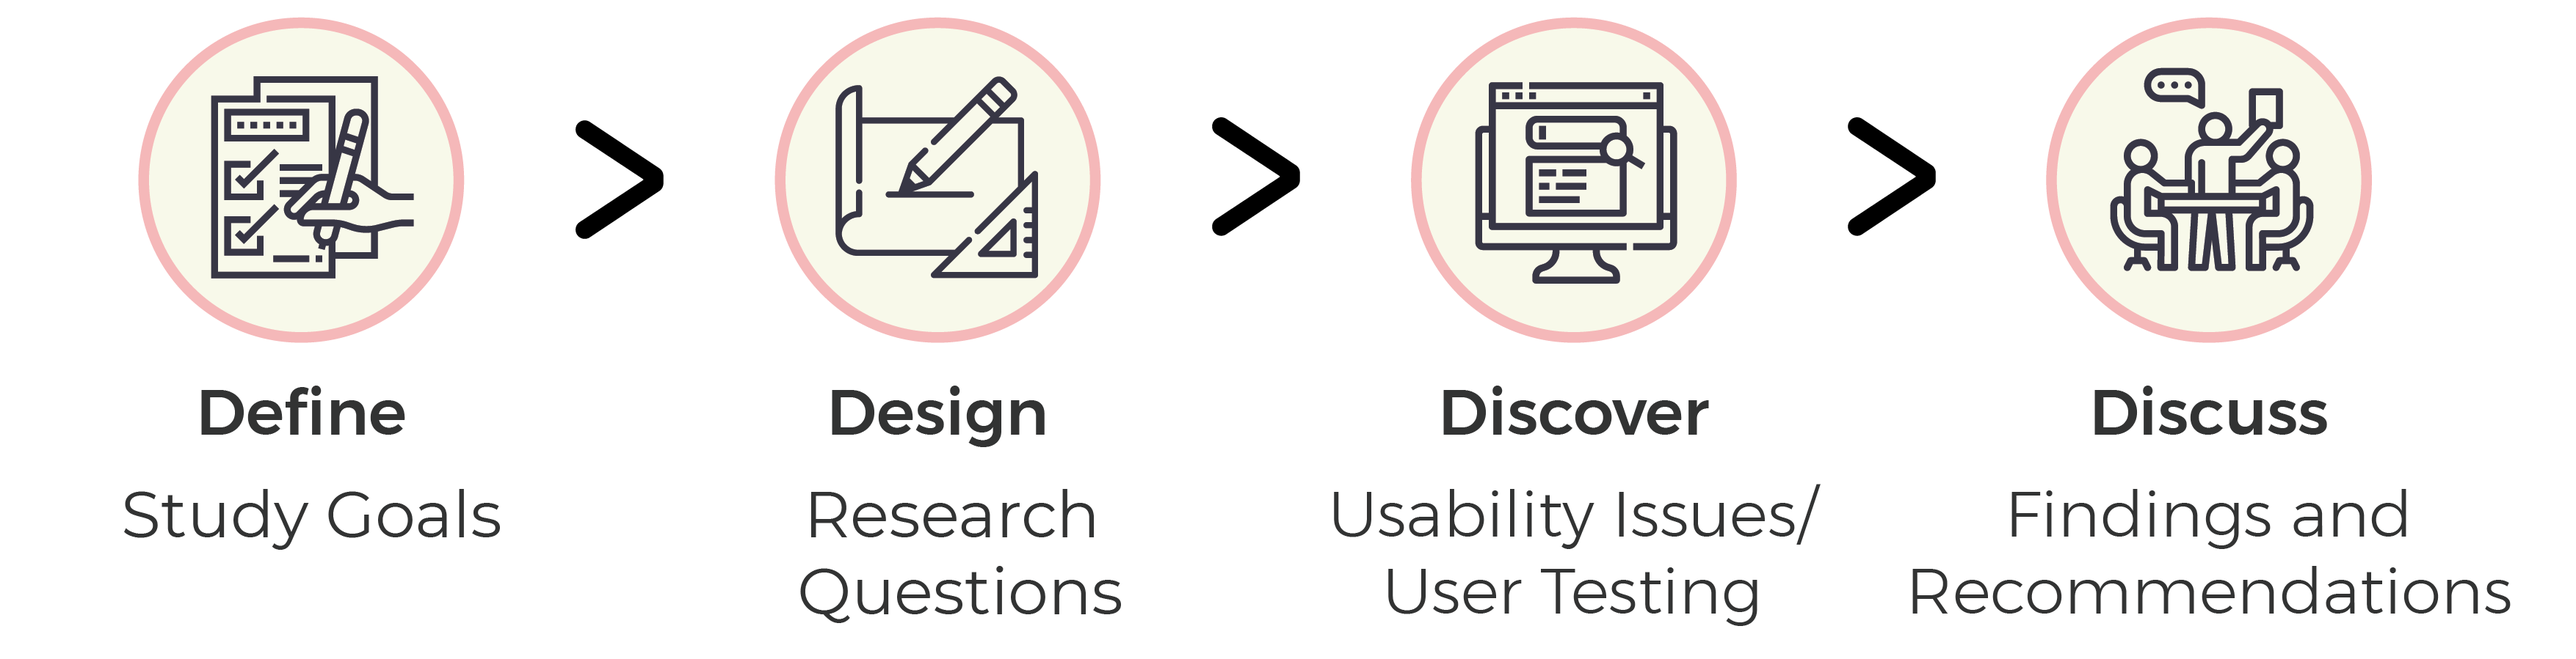
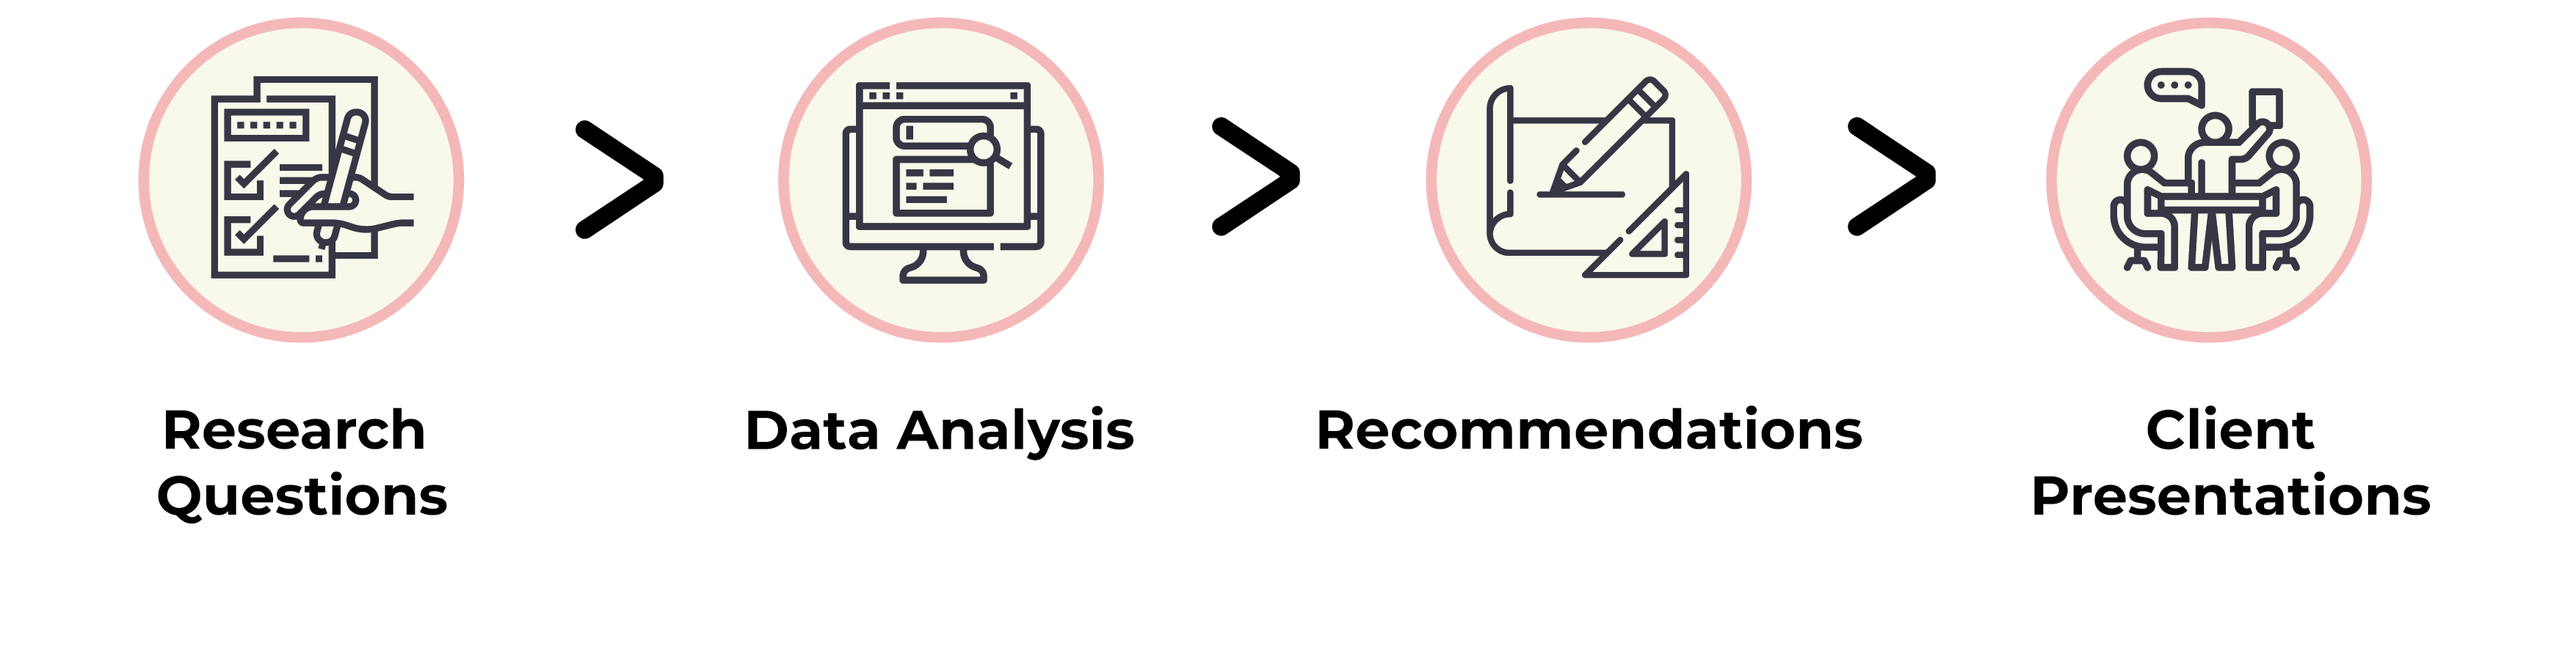
updated pratt news case study for resubmission

diff --git a/pratt-news-analysis.html b/pratt-news-analysis.html
@@ -139,7 +139,7 @@
 				<!-- Process Section -->
 				<div class="col-xl-8 offset-xl-2">
 					<span class="sp-sub-title">process</span>
-					<h3 class="sp-title">define+design+discover+dicuss</h3>
+					<h3 class="sp-title">define + analyze + recommend + present</h3>
 					<img src="img/pratt-news/Process-01.png" alt="process followed is define design discover discuss" >
 				</div>
 
@@ -192,8 +192,8 @@
 						<p>Here is the summary of our high-level findings from the entire website:</p>   
 						<div class="col-xl-12">
 						<ol class="sub-order-list">
-							<li>On average 43% of users clicked on the main navigation bar to move from one page to the next. 83% of total users scroll below the average fold.</li>
-							<li>Of all features within the navigation bar, the search icon is the most popular (6.6% of site visitors). There is a significant drop-off between users that click the search icon and those who complete a search (1.7% of visitors).</li>
+							<li>On average 43% of users clicked on the main navigation bar to move from one page to the next. 83% of total users scrolled below the average fold.</li>
+							<li>The search icon is the most clicked (6.6% of site visitors) within the navigation menu. However, we see a significant drop-off between users clicking the search icon and those who complete a search (1.7% of visitors).</li>
 							<li>An average of 46.79% of Desktop users see the Related News articles after reading an article, with a range of 34% - 64%.</li>
 							<li>11% of the total clicks on the homepage are made on “View all articles”. But they are more likely to drop off soon after going to the linked page. But more than 94% of the user are likely to drop off from the articles page.</li>
 						</ol>
@@ -205,6 +205,7 @@
 				<!-- Recommendations -->
 					<div class="row" style="margin: 50px 0px;">
 						<div class="col-xl-8 offset-xl-2">
+							<span class="sp-sub-title">Recommendations</span>
 							<h3 class="sp-title">Sound Recommendations based on our Hypothesis</h3>
 							<p>Based on our analysis of the website using Hotjar and Google Analytics we proposed 4 sound recommendations that could further enhance the user experience of the Pratt News website.</p>
 							<br/>
@@ -215,7 +216,8 @@
 					<div class="row">
 						<div class="col-xl-4 offset-xl-1">
 							<h3 class="sp-title">Reducing the height of the navigation and making it sticky</h3>
-							<p>Firstly, we recommend making the navigation menu of the website sticky. The current implementation of a static navigation menu forces the user to scroll all the way back up and engage with the website. I feel making the navigation sticky would ease this burden off the users shoulder and let them easily navigate to different sections of the website. In addition to this we recommend compressing the main Pratt website navigation into a hamburger icon so that the users are not overwhelmed by the number of menu options. The interaction design of the navigation bar is as shown on the right.</p>
+							<p>Firstly, we recommend <strong>reducing the height of the navigation bar and making it sticky</strong>, as shown in the image on the right. This would significantly improve the user engagement  and allows users to explore other sections of the website.</p>
+							<p>In addition to this hiding the main Pratt website navigation would <strong>help declutter the navigation menu</strong> and help user focus better. The interaction design for the new navigation bar is as shown on the right.</p>
 							<br/>
 						</div>
 						<div class="col-xl-6 align-self-center">
@@ -228,7 +230,8 @@
 					<div class="row" style="margin: 50px 0px;">
 						<div class="col-xl-4 offset-xl-1">
 							<h3 class="sp-title">Providing suggestive search and always keeping the news navigation options available</h3>
-							<p>Secondly, we recommend changing the interaction design of the News search bar. The current design covers the whole navigation menu when expanded, which violates the system visibility heuristic. I feel that implementing our recommended changes to the search would significantly lower the search drop off rate. In addition to this if predictive/suggestive search functionality is implemented it would further motivate the user to use it.</p>
+							<p>The current search bar violates a very important heuristic by covering the navigation menu. We recommend changing the visual design to something as shown on the right. I believe this would significantly lower the search drop-off rate.</p>
+							<p>In addition providing a predictive/ suggestive search would further improve the user engagement.</p>
 							<br/>
 						</div>
 						<div class="col-xl-6 align-self-center">
@@ -256,7 +259,7 @@
 						<div class="col-xl-4 offset-xl-1">
 							<!-- <span class="sp-sub-title">Recommendation #4</span> -->
 							<h3 class="sp-title">Relabeling call to action buttons on articles page.</h3>
-							<p>Lastly, we recommend relabeling the “View all articles” CTA button to “Browse all articles”. The current user flow takes the user to similar looking page, where the articles are broadly categorized. “Browse all articles” would align with the users mental model as they would expect to see some level of categorization on the next page, as opposed to “View all articles” where they expect to see the list of all the articles on the news website.</p>
+							<p>In the current user flow the users are taken to a similar looking page when they click “View all articles”. This results in a high drop off rate on the next page. <strong>Relabeling this CTA button to “Browse all articles” would better align with the users mental model</strong> as they would expect some level of categorization rather than an exhaustive list of all the articles the website has to offer. </p>
 							<br/>
 						</div>
 						<div class="col-xl-6 align-self-center">
@@ -268,7 +271,7 @@
 					<!-- Conclusion -->
 					<div class="row">
 						<div class="col-xl-8 offset-xl-2">
-							<span class="sp-sub-title">Conclusion</span>
+							<span class="sp-sub-title">Client Presentation & Afterthought</span>
 							<h3 class="sp-title">Happy Clients</h3>
 							<p>The presentation was received well by the client and we got a fairly positive feedback from them. They really appreciated the depth of detail we went into to present our recommendations and how the designs looked professional in nature.</p>
 						</div>
